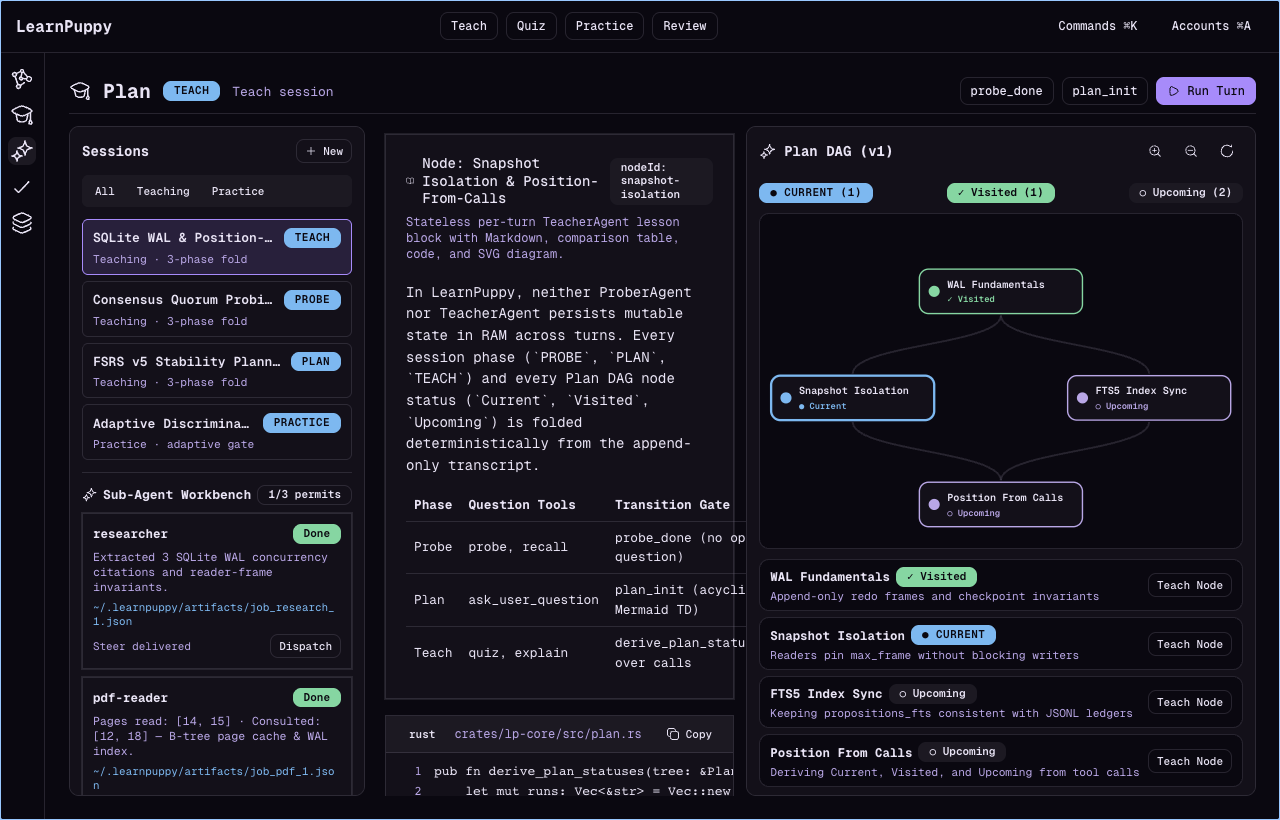
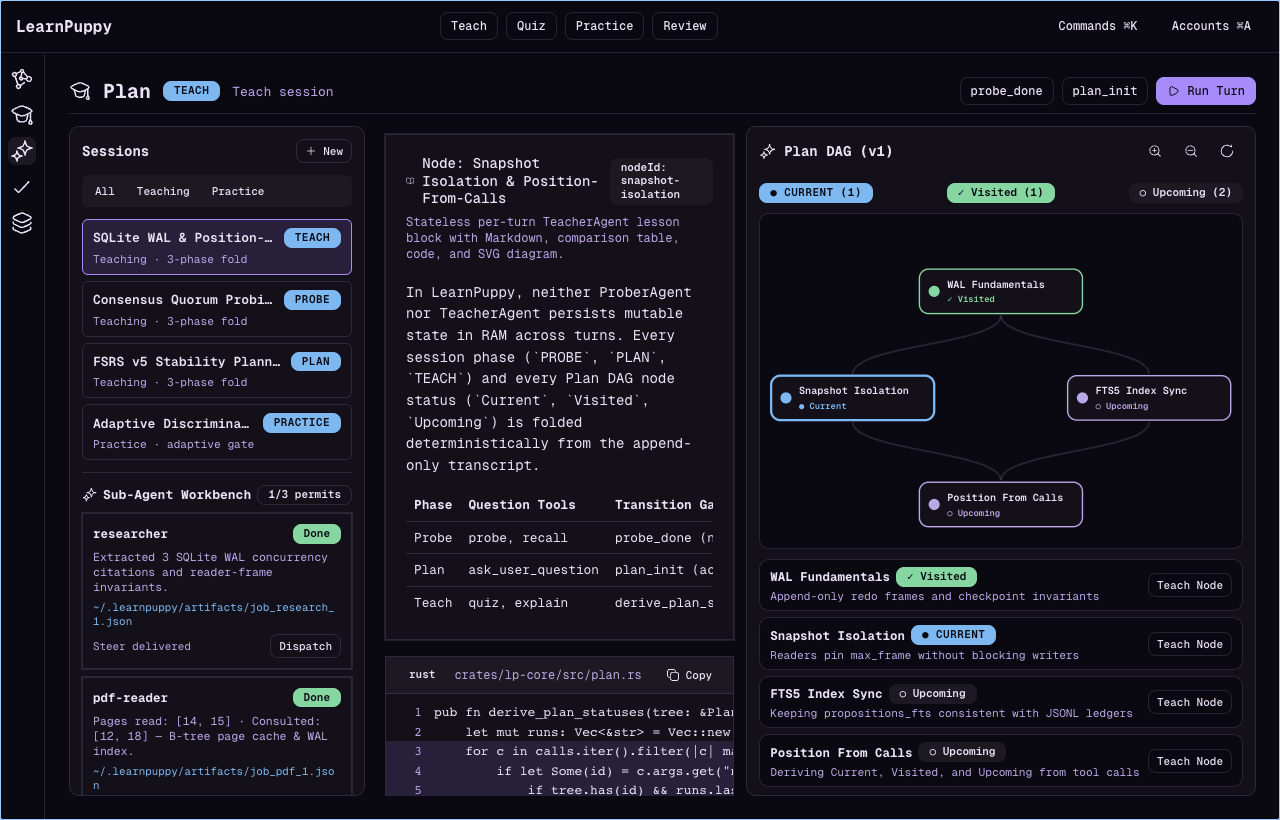
fix: scroll wide lesson table inside its own wrapper

Changed region(s): [[0.2812, 0.6402, 0.5938, 0.9756]]

diff --git a/crates/lp-app/src/views/classroom.rs b/crates/lp-app/src/views/classroom.rs
@@ -976,8 +976,8 @@ pub fn ClassroomView() -> Element {
                                 class: "h-full",
                                 div {
                                     "data-testid": "lesson-stream",
-                                    class: "flex flex-col",
-                                    style: "padding: 0.5rem 0.75rem 1.25rem 0.5rem; gap: 1rem;",
+                                    class: "flex flex-col min-w-0",
+                                    style: "min-width: 0; padding: 0.5rem 0.75rem 1.25rem 0.5rem; gap: 1rem;",
 
                                     // Streaming turn status / error banner from Backend::turn
                                     if !turn_stream_text().is_empty() {
@@ -1032,10 +1032,14 @@ pub fn ClassroomView() -> Element {
                                                     style: "margin: 0;",
                                                     "In LearnPuppy, neither ProberAgent nor TeacherAgent persists mutable state in RAM across turns. Every session phase (`PROBE`, `PLAN`, `TEACH`) and every Plan DAG node status (`Current`, `Visited`, `Upcoming`) is folded deterministically from the append-only transcript."
                                                 }
+                                                div {
+                                                    "data-testid": "lesson-table-wrapper",
+                                                    class: "lp-table-scroll min-w-0",
+                                                    style: "max-width: 100%; overflow-x: auto;",
                                                 table {
                                                     "data-testid": "lesson-table",
                                                     "aria-label": "Phase and tool invariants table",
-                                                    style: "width: 100%; border-collapse: collapse; font-size: 0.8rem;",
+                                                    style: "width: 100%; min-width: max-content; border-collapse: collapse; font-size: 0.8rem;",
                                                     thead {
                                                         tr {
                                                             style: "border-bottom: 1px solid var(--border); text-align: left;",
@@ -1063,6 +1067,7 @@ pub fn ClassroomView() -> Element {
                                                             td { style: "padding: 0.375rem 0.5rem;", "derive_plan_statuses over calls" }
                                                         }
                                                     }
+                                                }
                                                 }
                                             }
                                         }
@@ -1807,6 +1812,9 @@ mod tests {
         assert!(html.contains(r#"data-testid="lesson-stream""#));
         assert!(html.contains(r#"data-testid="lesson-markdown""#));
         assert!(html.contains(r#"data-testid="lesson-table""#));
+        assert!(html.contains(r#"data-testid="lesson-table-wrapper""#));
+        assert!(html.contains("lp-table-scroll"));
+        assert!(html.contains("overflow-x: auto"));
         assert!(html.contains(r#"data-testid="lesson-code-block""#));
         assert!(html.contains(r#"data-testid="lesson-diagram-svg""#));
 
